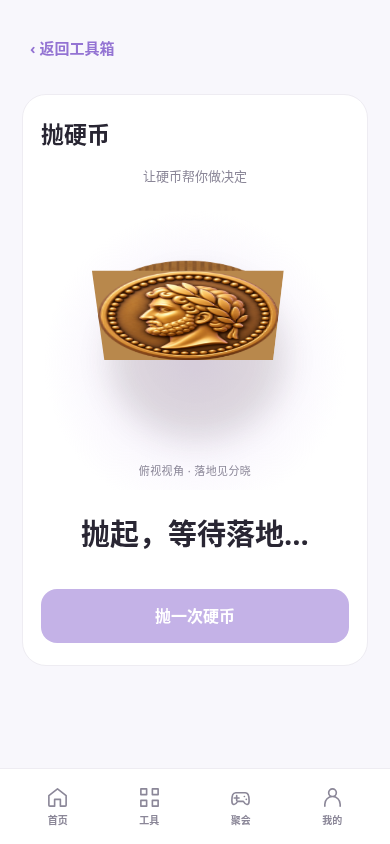
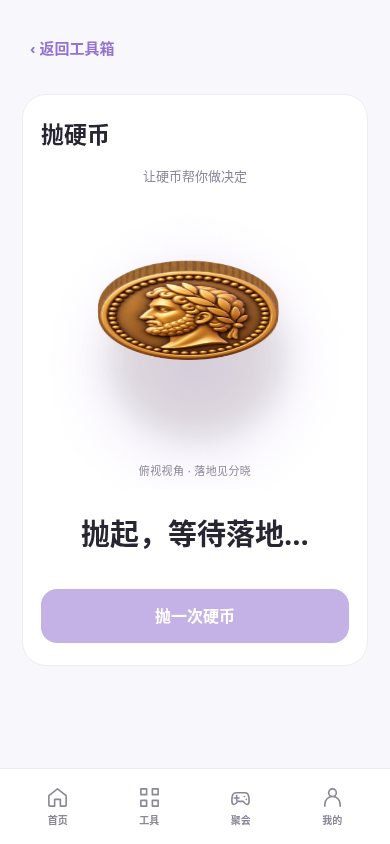
Keep coin faces anchored to their edge layers and verify rendered alignment

Changed region(s): [[0.5231, 0.3081, 0.7385, 0.4313], [0.2154, 0.3081, 0.4308, 0.4313]]

diff --git a/app/src/main/assets/ui/happybox.css b/app/src/main/assets/ui/happybox.css
@@ -43,3 +43,4 @@ body{font-family:-apple-system,BlinkMacSystemFont,'Noto Sans',sans-serif;line-he
 .choice>.hb-game-art{width:180px;height:190px}
 @media(prefers-reduced-motion:reduce){.coin-in-flight .coin-float,.coin-in-flight .coin-rotor,.coin-in-flight .coin-shadow{animation:none}}
 .art-coin>.hb-game-art{width:100%;height:100%}
+.coin-face{position:absolute;width:100%;height:100%;border-radius:50%}

diff --git a/scripts/check_ui.py b/scripts/check_ui.py
@@ -56,6 +56,7 @@ with sync_playwright() as pw:
  page.wait_for_function('!busy');check('Heads result agrees with face',page.evaluate("document.getElementById('coinResult').textContent==='正面'&&coinRotation%360===0"))
  page.evaluate("rand=()=>1;flipCoin()")
  page.wait_for_function('!busy');check('Tails result agrees with face',page.evaluate("document.getElementById('coinResult').textContent==='反面'&&coinRotation%360===180"))
+ check('Both coin faces stay centered on edge layers',page.evaluate("(()=>{const r=document.getElementById('coinRotor').getBoundingClientRect();return [...document.querySelectorAll('.coin-face')].every(el=>{const f=el.getBoundingClientRect();return Math.abs((f.left+f.right-r.left-r.right)/2)<4&&Math.abs((f.top+f.bottom-r.top-r.bottom)/2)<4&&f.width>100&&f.height>100})})()"))
  page.screenshot(path=str(OUT/'coin-landed.png'),full_page=False)
  page.evaluate("flipCoin();openTool('rps');rand=window.rtTestRand;delete window.rtTestRand")
  page.wait_for_timeout(1500);check('Leaving coin cancels stale result updates',page.locator('#rpsResult').inner_text()=='石头 · 剪刀 · 布')
@@ -119,7 +120,7 @@ with sync_playwright() as pw:
  check('Changed account data stays untouched',page.evaluate('Object.keys(rtProfileGet()).length===0'))
  page.evaluate("rtUser.uid='ui-test-only';rtProfileError('')")
  page.locator('#rtProfileName').fill('开心盒用户');page.locator('.rt-name-save').click()
- page.screenshot(path=str(OUT/'profile.png'),full_page=False)
+ page.wait_for_timeout(200);page.screenshot(path=str(OUT/'profile.png'),full_page=False)
  page.locator('#rtProfileName').fill('开心测试');page.evaluate("rtProfileChoose('fox');rtProfileCommit();rtShowProfile()")
  check('Profile edits persist per UID',page.locator('#rtProfileName').input_value()=='开心测试')
  check('No uncaught JS errors',not errors)

diff --git a/docs/UI-REDESIGN.md b/docs/UI-REDESIGN.md
@@ -45,4 +45,4 @@
 
 新增检查覆盖三种手势图像解码/显示、硬币两面的最终图像与结果一致、离开页面取消、减少动态效果、离线音频渲染/无削波，以及昵称保存提示的位置与可见性。仍未进行 Android 真机的动效与扬声器听感验收。
 
-本轮验证：85 项浏览器检查全部通过，JS/Python 语法检查与 `git diff --check` 通过；预览新增硬币空中/落地及石头、剪刀、布各状态。
+本轮验证：86 项浏览器检查全部通过（包含正反面与边缘层居中对齐检查），JS/Python 语法检查与 `git diff --check` 通过；预览新增硬币空中/落地及石头、剪刀、布各状态。
